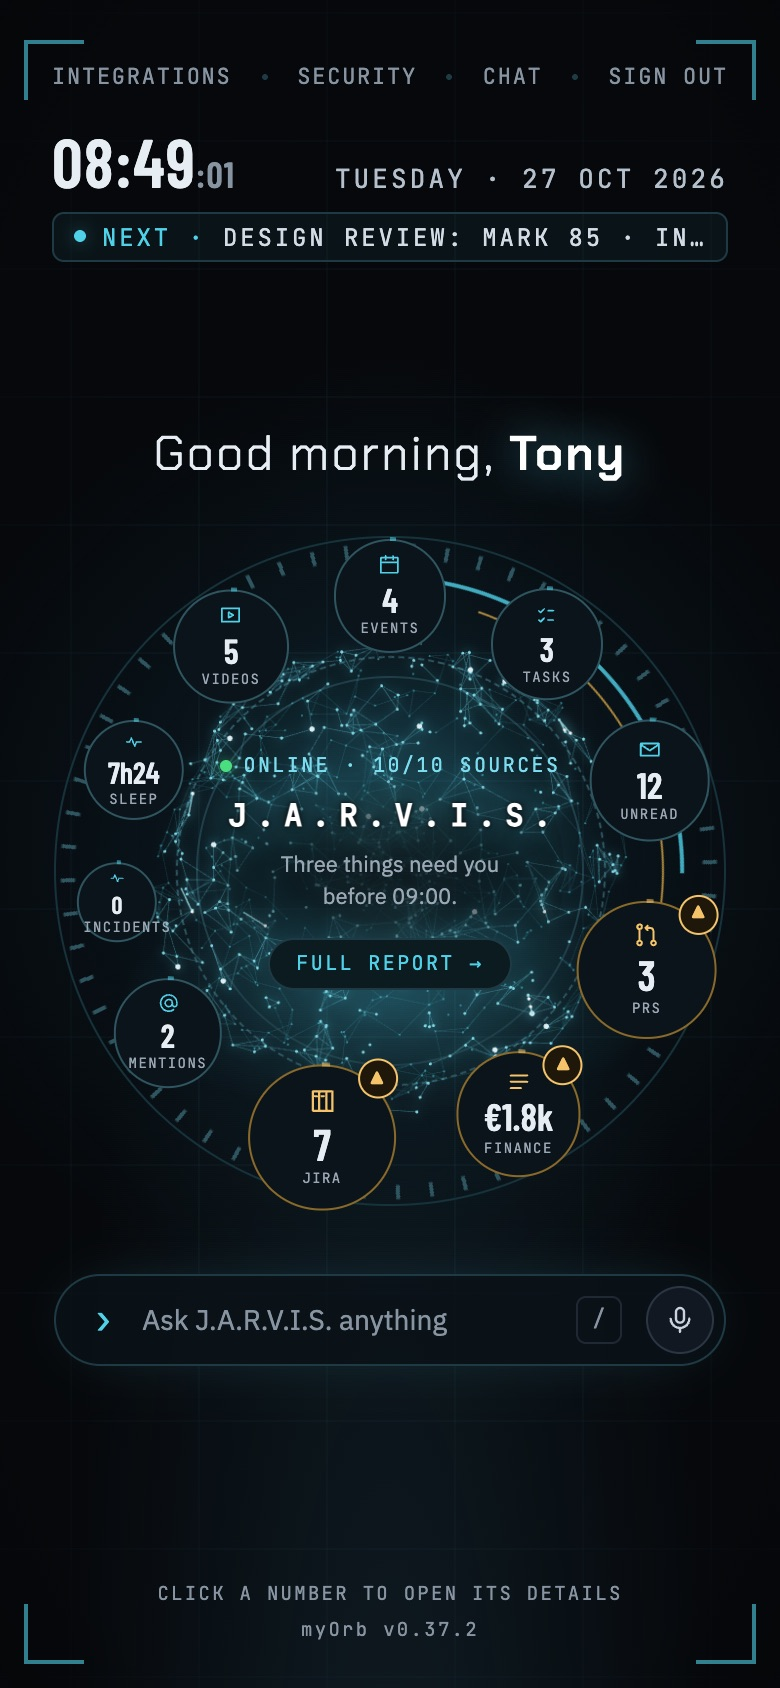
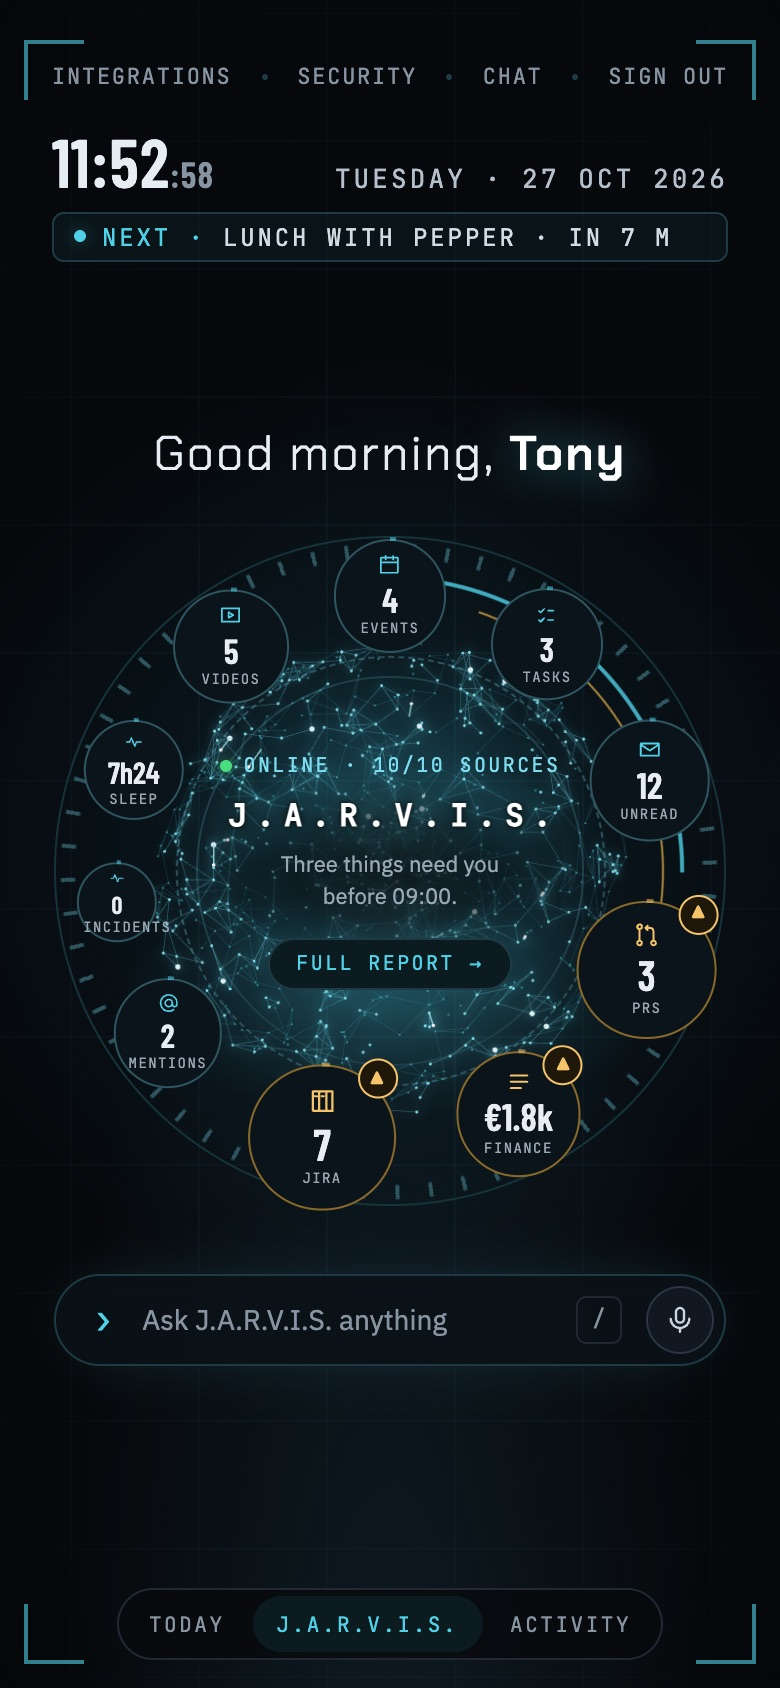
README: the phone screenshot with its three screens (#133)
Claude-Session: https://claude.ai/code/session_01WepqR9ZDDWQ5SWvBengdYi

diff --git a/README.md b/README.md
@@ -35,9 +35,9 @@ Your assistant is yours to name: call it J.A.R.V.I.S., Iris, HAL 9000 or anythin
 
 *Ask, with an action to confirm.*
 
-<img src="https://raw.githubusercontent.com/eriktelepovsky/myorb/main/docs/images/phone.jpg" alt="myOrb on a phone: the orb with its numbers and the command line" width="300">
+<img src="https://raw.githubusercontent.com/eriktelepovsky/myorb/main/docs/images/phone.jpg" alt="myOrb on a phone: the orb with its numbers, the command line, and the bar to switch to Today or Activity" width="300">
 
-*On a phone.*
+*On a phone: swipe to the day (Today) or to actions and activity.*
 
 ## Run on your computer
 
